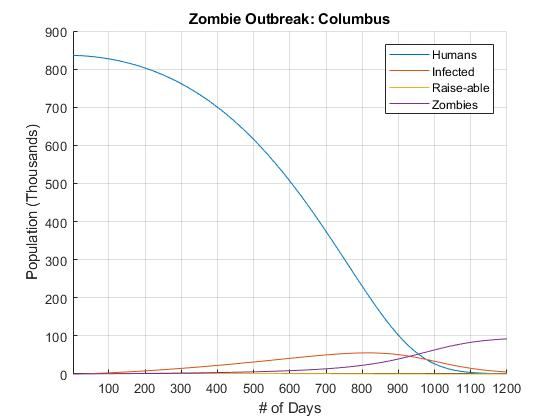
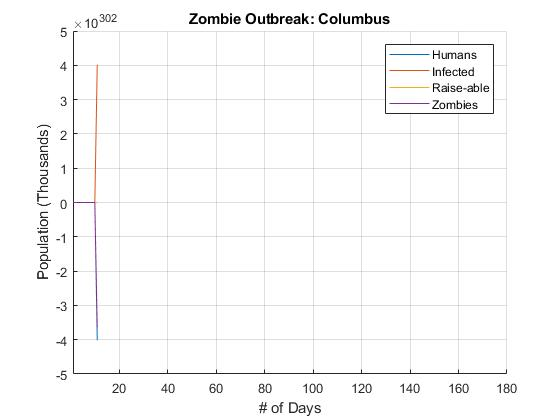
P3 was wrong sadly

diff --git a/Final/p3/p3.m b/Final/p3/p3.m
@@ -2,8 +2,8 @@
 % Written by Josh Humphrey
 
 % Model Parameters
-days = 1200;
-T = 0.1;
+days = 180;
+T = 1;
 t = linspace(1,days,days);
 alpha = 0.005;
 beta = 0.0055;
@@ -11,7 +11,7 @@ zeta = 0.5;
 delta = 0.001;
 rho = 0.5;
 c = 0.002;
-pii = 0.001;
+p = 0.001;
 
 % Populations
 Middletown = 97.5;
@@ -26,7 +26,7 @@ I = zeros(1,days); % Infected Group
 Z = zeros(1,days); % Zombies
 R = zeros(1,days); % Raise-able
 K = zeros(1,days); % Unable to be re-animated
-S(1)= Middletown;
+S(1)= Columbus;
 I(1)= 0;
 Z(1)= 0;
 R(1)= 0;
@@ -35,7 +35,7 @@ K(1)= 0;
 
 
 for k = 1:days-1
-    SK1 = pii*S(k)-beta*Z(k)*S(k)-delta*S(k)+c*Z(k);
+    SK1 = p*S(k)-beta*Z(k)*S(k)-delta*S(k)+c*Z(k);
     IK1 = beta*Z(k)*S(k)-rho*I(k)-delta*I(k);
     ZK1= rho*I(k)+zeta*R(k)-alpha*S(k)*Z(k)-c*Z(k);
     RK1 = delta*S(k)-zeta*R(k);
@@ -47,11 +47,11 @@ for k = 1:days-1
     MidR = R(k)+(T)*RK1;    
     MidK = K(k)+(T)*KK1;
     
-    SK2 = pii*SK1-beta*ZK1*SK1-delta*SK1+c*ZK1;
-    IK2 = beta*ZK1*SK1-rho*IK1-delta*IK1;
-    ZK2 = rho*IK1+zeta*RK1-alpha*SK1*ZK1-c*ZK1;
-    RK2 = delta*SK1-zeta*RK1;
-    KK2 = delta*IK1+alpha*SK1*ZK1;
+    SK2 = p*MidS-beta*MidZ*MidS-delta*MidS+c*MidZ;
+    IK2 = beta*MidZ*MidS-rho*MidI-delta*MidI;
+    ZK2 = rho*MidI+zeta*MidR-alpha*MidS*MidZ-c*MidZ;
+    RK2 = delta*MidS-zeta*MidR;
+    KK2 = delta*MidI+alpha*MidS*MidZ;
 
     S(k+1) = S(k)+(T/2)*(SK1 + SK2);
     I(k+1) = I(k)+(T/2)*(IK1 + IK2);
@@ -76,32 +76,32 @@ xlabel('# of Days')
 ylabel('Population (Thousands)')
 title('Zombie Outbreak: Columbus')
 
-figure(2)
-hold on
-grid on
-plot(t,Mid_H)
-plot(t,Akr_H)
-plot(t,CF_H)
-plot(t,Cle_H)
-plot(t,Col_H)
-title('Human Populations')
-legend('Middletown','Akron','Canal Fulton','Cleveland','Columbus')
-xlabel('# of Days')
-ylabel('Population (Thousands)')
-xlim([1,days])
-hold off
-
-figure(3)
-hold on
-grid on
-plot(t,Mid_Z)
-plot(t,Akr_Z)
-plot(t,CF_Z)
-plot(t,Cle_Z)
-plot(t,Col_Z)
-title('Zombie Populations')
-legend('Middletown','Akron','Canal Fulton','Cleveland','Columbus')
-xlabel('# of Days')
-ylabel('Population (Thousands)')
-xlim([1,days])
-hold off
+% figure(2)
+% hold on
+% grid on
+% plot(t,Mid_H)
+% plot(t,Akr_H)
+% plot(t,CF_H)
+% plot(t,Cle_H)
+% plot(t,Col_H)
+% title('Human Populations')
+% legend('Middletown','Akron','Canal Fulton','Cleveland','Columbus')
+% xlabel('# of Days')
+% ylabel('Population (Thousands)')
+% xlim([1,days])
+% hold off
+% 
+% figure(3)
+% hold on
+% grid on
+% plot(t,Mid_Z)
+% plot(t,Akr_Z)
+% plot(t,CF_Z)
+% plot(t,Cle_Z)
+% plot(t,Col_Z)
+% title('Zombie Populations')
+% legend('Middletown','Akron','Canal Fulton','Cleveland','Columbus')
+% xlabel('# of Days')
+% ylabel('Population (Thousands)')
+% xlim([1,days])
+% hold off
